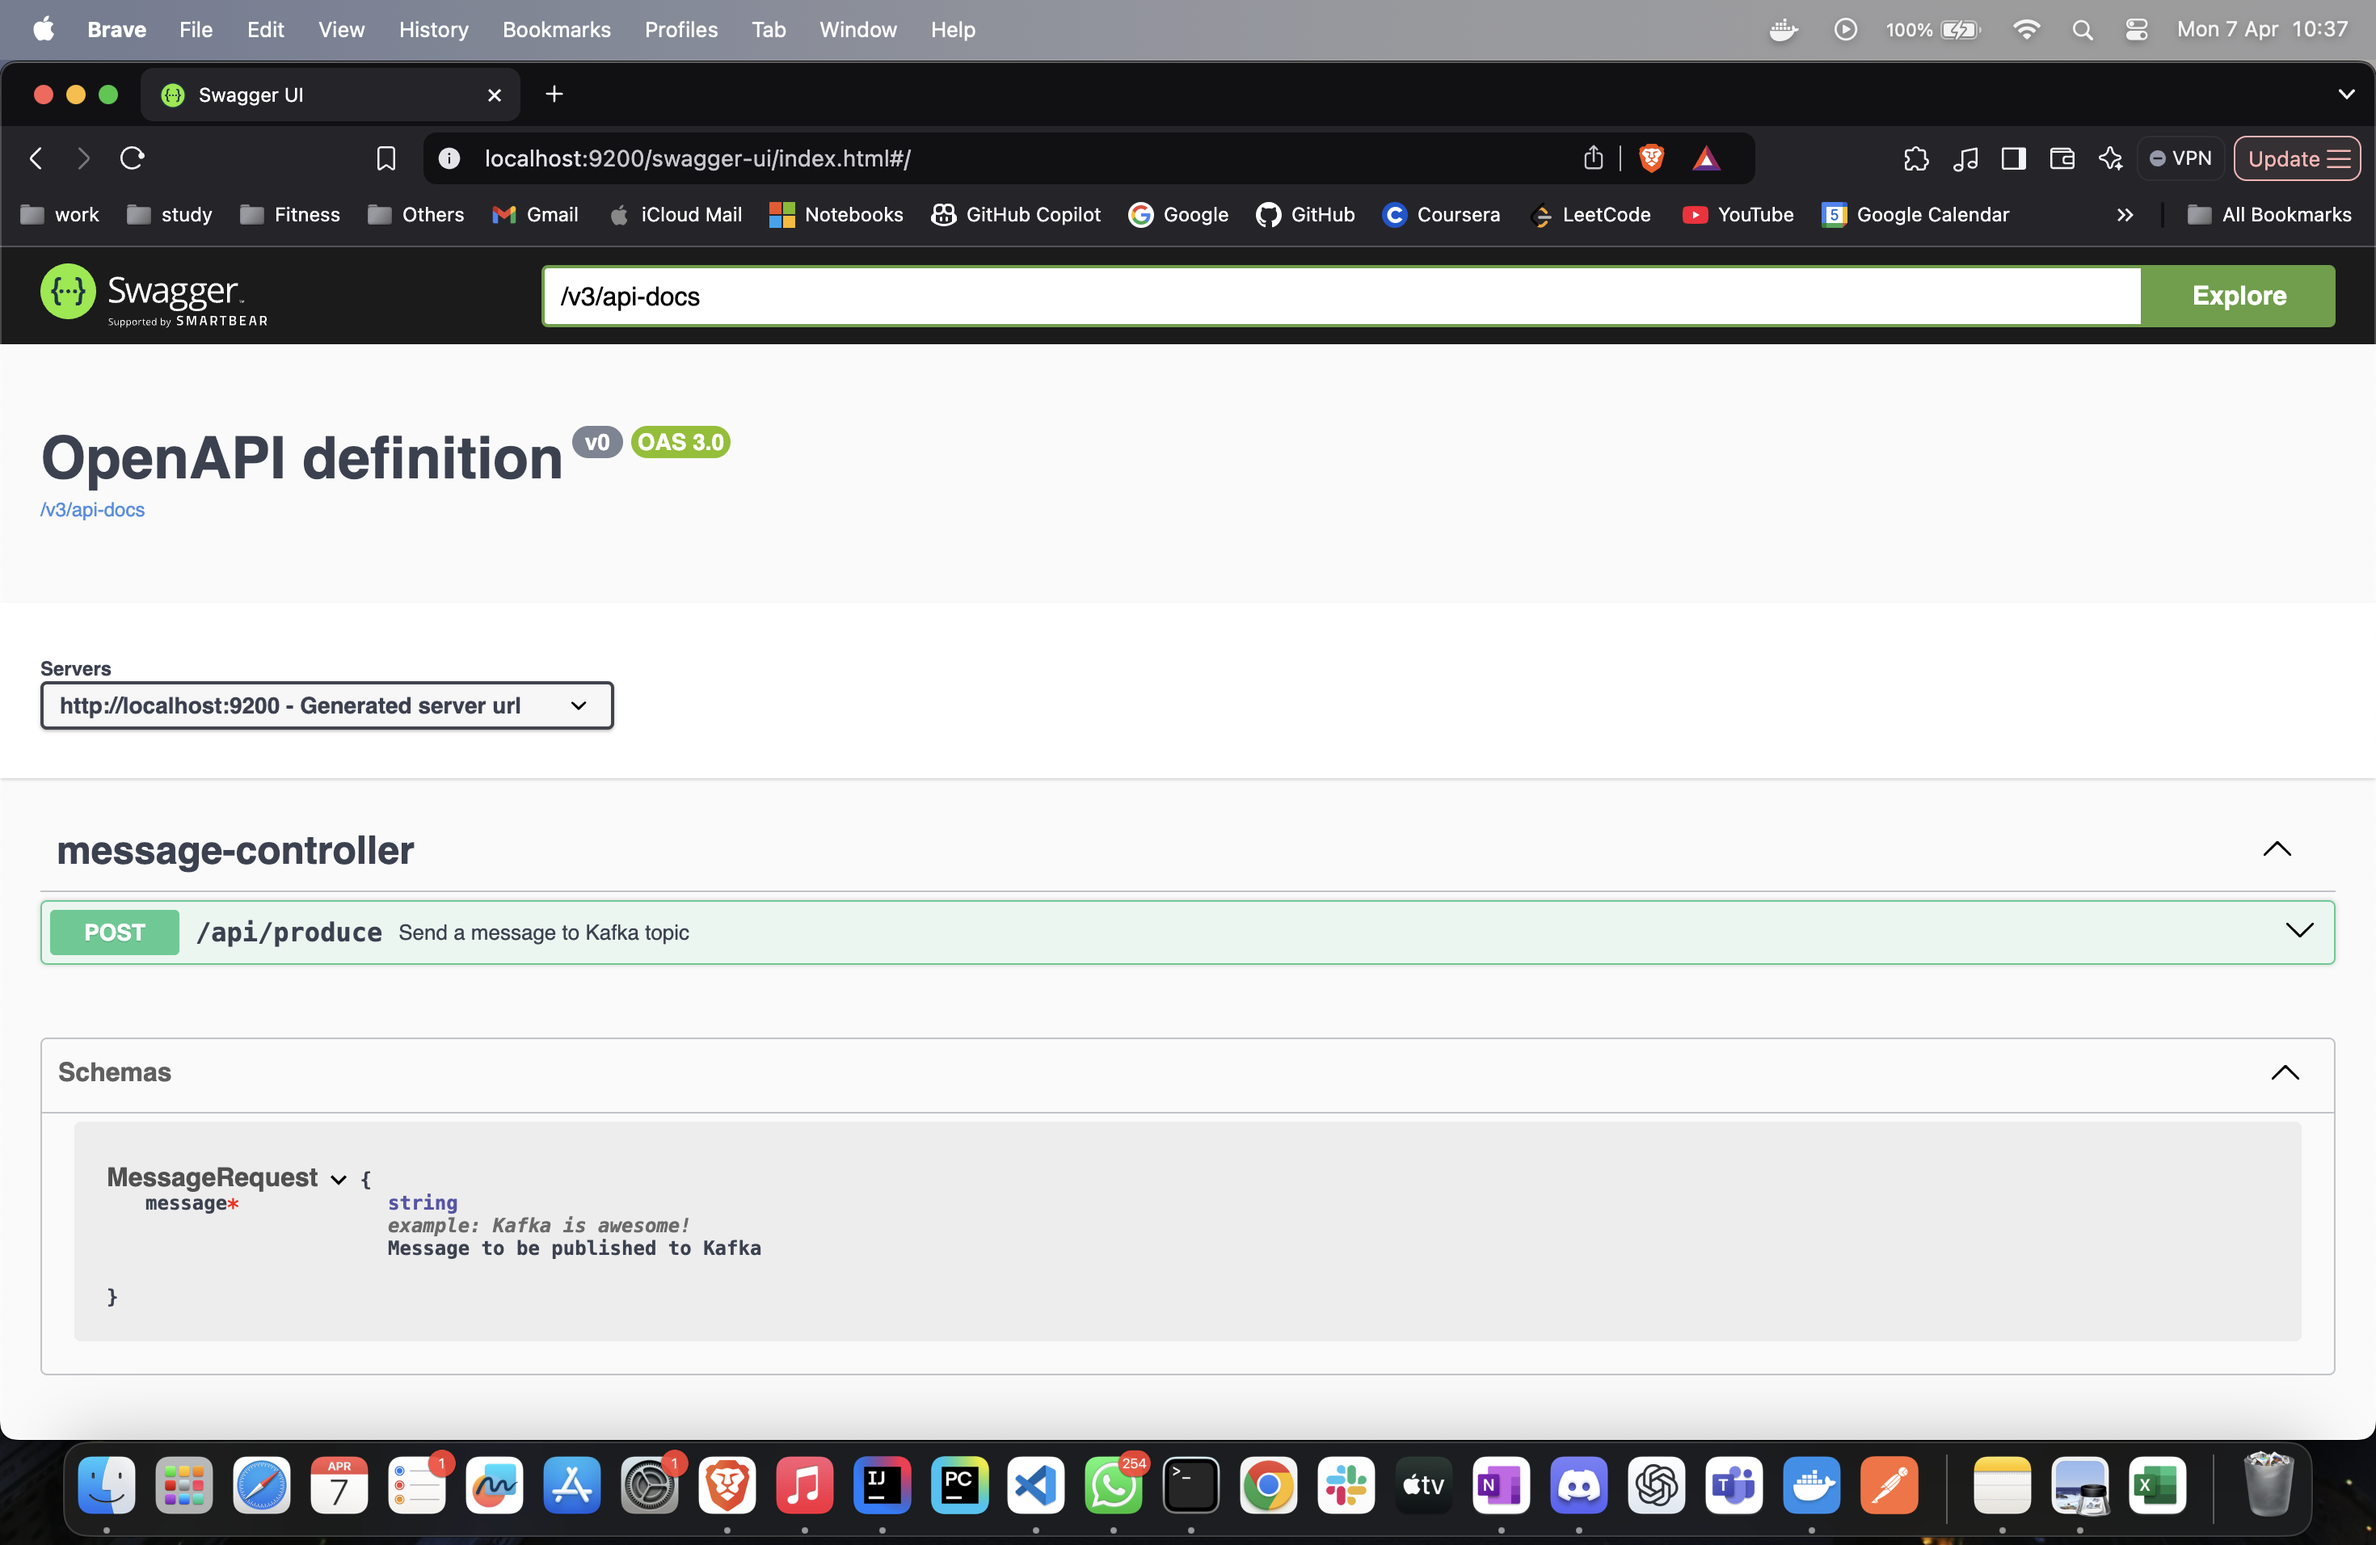
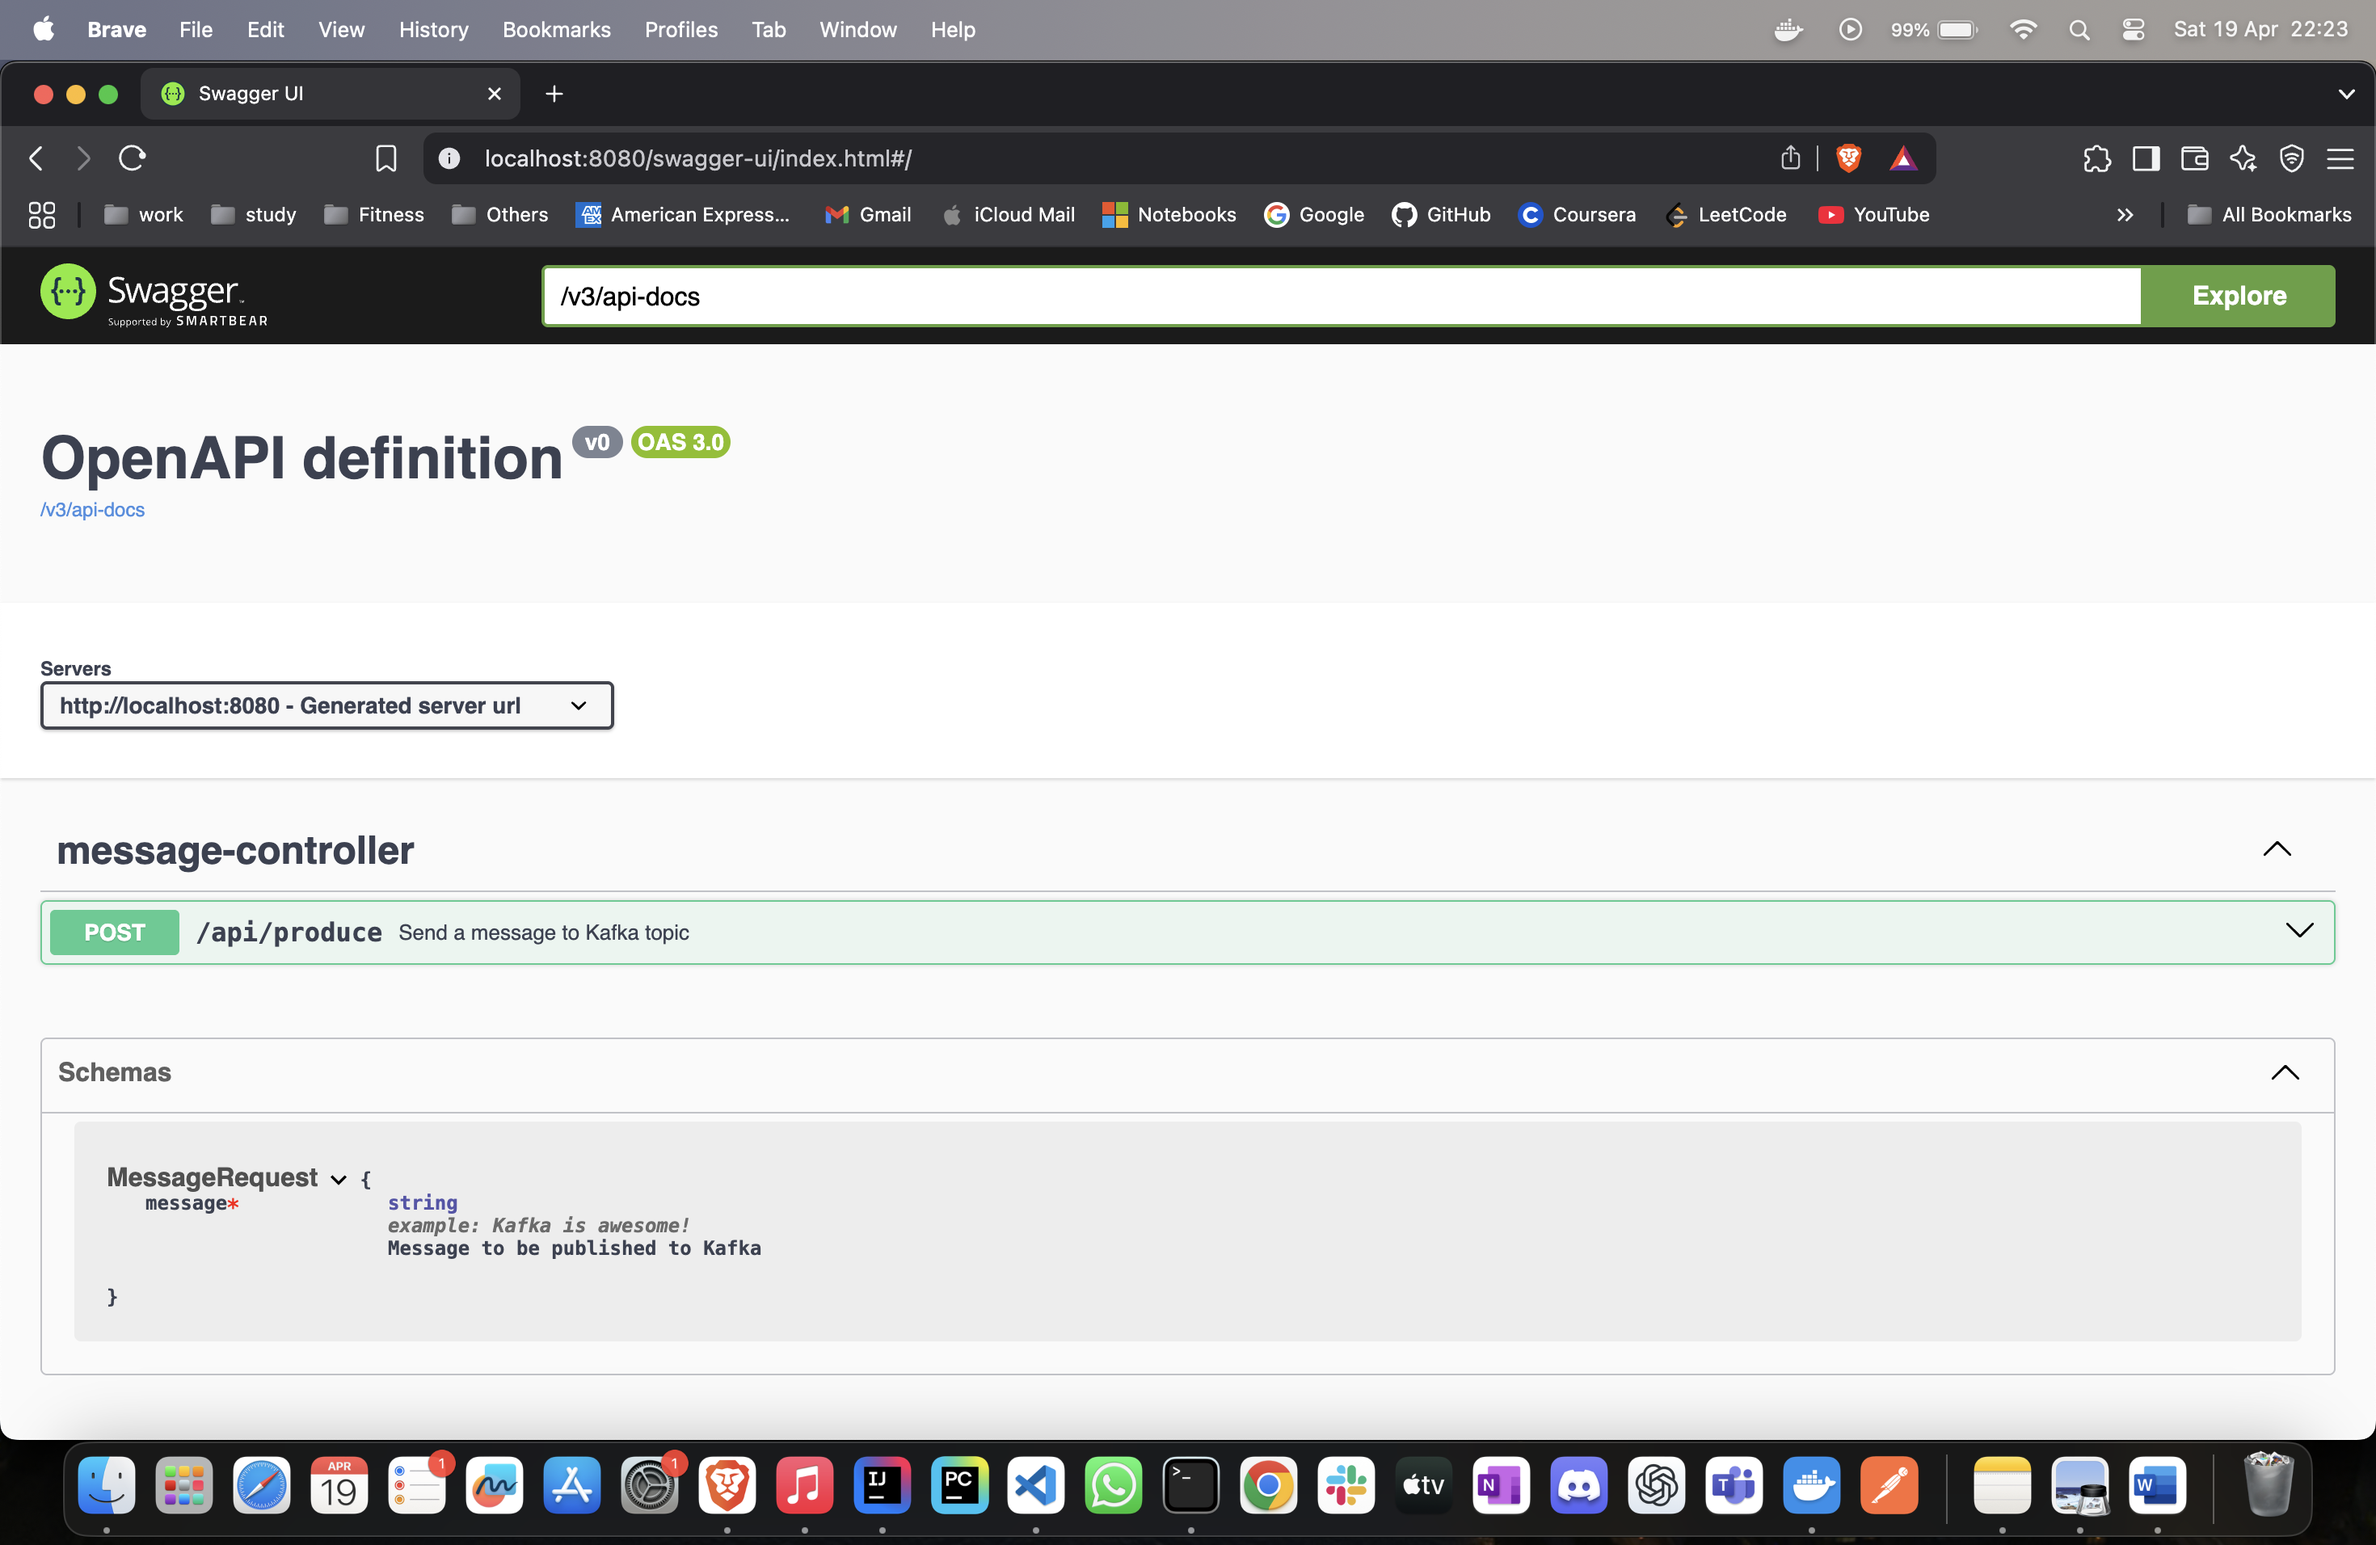
v9 - Review updates based on feedback from Mahi sir
- Updated Docker Compose commands in README for Docker v20+ compatibility
- Renamed main test class to match SpringBootKafkaApplication
- Updated all 9200 port references to 8080 across README and cURL commands
- Replaced outdated Swagger UI screenshot with new one reflecting port 8080
- Added KRaft architecture description and diagram before features section in README
- Changed Kafka UI container port to 8081 to avoid conflict with Spring Boot on 8080
- Ran and tested the project to verify successful startup and Swagger integration

diff --git a/src/test/java/com/in28minutes/SpringBootKafkaApplicationTests.java b/src/test/java/com/in28minutes/SpringBootKafkaApplicationTests.java
@@ -4,7 +4,7 @@ import org.junit.jupiter.api.Test;
 import org.springframework.boot.test.context.SpringBootTest;
 
 @SpringBootTest
-class SpringbootKafkaApplicationTests {
+class SpringBootKafkaApplicationTests {
 
 	@Test
 	void contextLoads() {

diff --git a/README.md b/README.md
@@ -4,6 +4,27 @@ This is a simple Kafka-based application using Spring Boot that allows sending a
 
 ---
 
+## About KRaft (Kafka Raft Metadata Mode)
+
+KRaft (Kafka Raft Metadata mode) is a newer architecture introduced in Apache Kafka to eliminate the need for ZooKeeper. It offers a simplified and more scalable way to manage metadata within the Kafka cluster.
+
+### Key Benefits of KRaft
+
+- No ZooKeeper dependency
+- Built-in Raft consensus for metadata consistency
+- Simpler deployment and management
+- Better support for scaling controllers
+
+### KRaft vs ZooKeeper Architecture
+
+The following diagram compares the traditional ZooKeeper-based Kafka setup with the newer KRaft-based setup:
+
+![KRaft Architecture](docs/kraft-architecture.jpg)
+
+> Source: [Confluent Developer – Learn KRaft](https://developer.confluent.io/learn/kraft/)
+
+---
+
 ## Features
 
 - Kafka setup using Bitnami Kafka Docker image (no ZooKeeper, KRaft mode)
@@ -69,13 +90,13 @@ docker compose -f docker/docker-compose.yml up -d
 To stop Kafka:
 
 ```bash
-docker-compose -f docker/docker-compose.yml down
+docker compose -f docker/docker-compose.yml down
 ```
 
 To view logs:
 
 ```bash
-docker-compose -f docker/docker-compose.yml logs -f
+docker compose -f docker/docker-compose.yml logs -f
 ```
 
 To enter the Kafka container:
@@ -104,10 +125,10 @@ If the topic already exists, the error can be ignored.
 
 ## Step 3: Run the Spring Boot Application
 
-Check if port 9200 is free:
+Check if port 8080 is free:
 
 ```bash
-lsof -i :9200
+lsof -i :8080
 ```
 
 If it is occupied, kill the process:
@@ -127,7 +148,7 @@ mvn spring-boot:run
 ## Step 4: Send a Message (via cURL)
 
 ```bash
-curl -X POST http://localhost:9200/api/produce \
+curl -X POST http://localhost:8080/api/produce \
   -H "Content-Type: application/json" \
   -d '{"message": "Kafka is awesome!"}'
 ```
@@ -176,7 +197,7 @@ Received message from Kafka: Kafka is awesome!
 You can access the API documentation at:
 
 ```
-http://localhost:9200/swagger-ui/index.html
+http://localhost:8080/swagger-ui/index.html
 ```
 
 
@@ -216,26 +237,6 @@ http://localhost:8080/
 ![Kafka UI](docs/kafka-ui-screenshot.png)
 
 ---
-
-## About KRaft (Kafka Raft Metadata Mode)
-
-KRaft (Kafka Raft Metadata mode) is a newer architecture introduced in Apache Kafka to eliminate the need for ZooKeeper. It offers a simplified and more scalable way to manage metadata within the Kafka cluster.
-
-### Key Benefits of KRaft
-
-- No ZooKeeper dependency
-- Built-in Raft consensus for metadata consistency
-- Simpler deployment and management
-- Better support for scaling controllers
-
-### KRaft vs ZooKeeper Architecture
-
-The following diagram compares the traditional ZooKeeper-based Kafka setup with the newer KRaft-based setup:
-
-![KRaft Architecture](docs/kraft-architecture.jpg)
-
-> Source: [Confluent Developer – Learn KRaft](https://developer.confluent.io/learn/kraft/)
-
 
 ## Status
 
